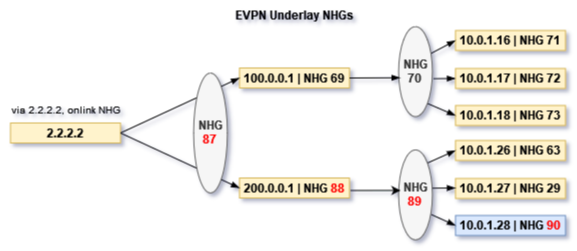
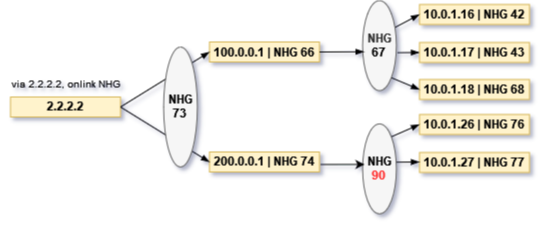
Update recursive HLD

diff --git a/doc/recursive/recursive_route.md b/doc/recursive/recursive_route.md
@@ -9,15 +9,15 @@
 <!-- omit in toc -->
 ## Table of Content
 - [Goal and Scope](#goal-and-scope)
-- [FRR's Current Limitations](#frrs-current-limitations)
-- [Triggers Events](#triggers-events)
-- [FRR Current Approaches](#frr-current-approaches)
-  - [NH Dependency Tree](#nh-dependency-tree)
-  - [NHT List from Route Node](#nht-list-from-route-node)
-  - [Route Update Trigger](#route-update-trigger)
 - [Requirements Overview](#requirements-overview)
+- [Zebra Current Approach for Recursive Routes](#zebra-current-approach-for-recursive-routes)
+  - [Data Structure for Recursive Handling](#data-structure-for-recursive-handling)
+    - [NH Dependency Tree](#nh-dependency-tree)
+    - [NHT List from Route Node](#nht-list-from-route-node)
+  - [Recursive Route Handling](#recursive-route-handling)
 - [High Level Design](#high-level-design)
-  - [Route Add and Updating](#route-add-and-updating)
+  - [Triggers Events for Recursive Handling](#triggers-events-for-recursive-handling)
+  - [Optimization of Recursive Route Handling](#optimization-of-recursive-route-handling)
     - [Data Structure Modifications](#data-structure-modifications)
       - [struct nhg\_hash\_entry](#struct-nhg_hash_entry)
       - [struct route\_entry](#struct-route_entry)
@@ -26,10 +26,6 @@
   - [Nexthop Group Preserving](#nexthop-group-preserving)
     - [Data Structure Modifications](#data-structure-modifications-1)
     - [The Handling of nexthop\_active\_update()](#the-handling-of-nexthop_active_update)
-    - [The Handling of rib\_add\_multipath\_nhe()](#the-handling-of-rib_add_multipath_nhe)
-  - [Route Withdrawal](#route-withdrawal)
-    - [Data Structure Modifications](#data-structure-modifications-2)
-    - [Fast Convergence Handling for Route Withdrawal](#fast-convergence-handling-for-route-withdrawal)
   - [Special Considerations for EVPN Overlay Routes](#special-considerations-for-evpn-overlay-routes)
   - [Dataplane Refresh for Recursive route](#dataplane-refresh-for-recursive-route)
   - [FPM's new schema for recursive nexthop group](#fpms-new-schema-for-recursive-nexthop-group)
@@ -46,10 +42,17 @@
 ## Goal and Scope
 A recursive route is a routing mechanism in which the routing decision for a specific destination is determined by referring to another routing table, which is then looked up recursively until a final route is resolved. Recursive routing is a key concept in routing protocols and is often used in complex network topologies to ensure that data reaches its intended destination, even when that destination is not directly reachable from the originating device. In many cases, recursive routes are used in VPN or tunneling scenarios.
 
-## FRR's Current Limitations
-FRR Zebra uses struct nexthop to track next hop information. If it is a recursive nexthop, its flags field would be set NEXTHOP_FLAG_RECURSIVE bit and its resolved field stores a pointer which points a list of nexthops obtained by recursive resolution. Therefore Zebra keeps hierarchical relationships on the recursive nexthops. 
+- This HLD focus on recursive route convergence handling. Since SONiC doesn't have MPLS VPN support in master, the testing would focus on EVPN and SRv6 VPN only. 
+- The approach applied to the handling of recursive routes in Per-VRF.
 
-Because the Linux kernel lacks support for recursive routes, FRR Zebra flattens the next-hop information of recursive routes when transferring it from Zebra to FPM or the Linux kernel. Currently, when a path goes down, Zebra would inform various protocol processes and let them replay routes update events accordingly. 
+## Requirements Overview
+This HLD focuses on Zebra and introduces two enhancements for recursive routes. The first is to recalculate route changes (additions/updates/withdrawals) independently, without relying on the protocol client in certain cases. The second is to optimize the convergence logic of recursive route. If Zebra serves as the control plane, then corresponding adjustments may be made to FPM and Orchagent to collaborate with it, thereby enhancing the overall efficiency of route convergence.
+
+- Fpm needs to add a new schema to take each member as nexthop group ID and update APP DB. (Rely on BRCM and NTT's changes)
+- Orchagent picks up event from APP DB and trigger nexthop group programming. Neighorch needs to handle this new schema without change too much on existing codes. (Rely on BRCM and NTT's changes)
+
+## Zebra Current Approach for Recursive Routes
+Zebra uses struct nexthop to track nexthop information. If it is a recursive nexthop, its flags field would be set NEXTHOP_FLAG_RECURSIVE bit and its resolved field stores a pointer which points a list of nexthops obtained by recursive resolution. Therefore Zebra keeps hierarchical relationships on the recursive nexthops. Because the Linux kernel lacks support for recursive routes, FRR Zebra flattens the nexthop information of recursive routes when transferring it from Zebra to FPM or the Linux kernel. Currently, when a path goes down, Zebra would inform various protocol processes and let them replay routes update events accordingly. 
 
 This leads an issue discussed in the SONiC Routing Working Group (https://lists.sonicfoundation.dev/g/sonic-wg-routing/files/SRv6%20use%20case%20-%20Routing%20WG.pptx).
 
@@ -60,23 +63,8 @@ This leads an issue discussed in the SONiC Routing Working Group (https://lists.
 
 To solve this issue, we need to introduce Prefix Independent Convergence (PIC) to FRR/SONiC. PIC concept is described in IEFT https://datatracker.ietf.org/doc/draft-ietf-rtgwg-bgp-pic/. It is not a BGP feature, but a RIB/FIB feeature on the device. PIC has two basic concepts, PIC core and PIC edge. The following HLD focuses on PIC edge's enhancement https://datatracker.ietf.org/doc/draft-ietf-rtgwg-bgp-pic/. This HLD is outline an approach which could prevent BGP load balancing updates from being triggered by IGP load balancing updates, a.k.a PIC core approach for the recursive VPN route support. 
 
-Note: 
-- This HLD only focus on recursive VPN routes support. Since SONiC doesn't have MPLS VPN support in master, the testing would focus on EVPN and SRv6 VPN only. 
-- The similar approach could be applied to global table's recursive routes support. But that requires SAI APIs. Therefore, global table's recursive routes support is not in the scope of this HLD.(?? TODO It is per-vrf recursive enhancement, so the global will also benefit from this enhancement ??)
-
-## Triggers Events
-Here are a list of trigger events which we want to take care for getting faster routes convergence and minimizing hardware traffic loss. 
-
-| Trigger Types |     Events    |       Possible handling          | 
-|:---|:-----------|:----------------------|
-| Case 1: IGP local failure | A local link goes down | Currently Orchagent handles local link down event and triggers a quick fixup which removes the failed path in HW ECMP. Zebra will be triggered from connected_down() handling. BGP may be informed to install a backup path if needed. This is a special PIC core case, a.k.a PIC local |
-| Case 2: IGP remote link/node failture  | A remote link goes down, IGP leaf's reachability is not changed, only IGP paths are updated. | IGP gets route withdraw events from IGP peer. It would inform zebra with updated paths. Zebra would be triggered from zread_route_add() with updated path list. It is the PIC core handling case. |
-| Case 3: IGP remote PE failure  | A remote PE node is unreachable in IGP domain. | IGP triggers IGP leaf delete event. Zebra will be triggered from zread_route_del(). It is the PIC edge handling case |
-| Case 4: BGP remote PE node failure  | BGP remote node down | It should be detected by IGP remote node down first before BGP reacts, a.k.a the same as the above steps. This is the PIC edge handling case.|
-| Case 5: Remote PE-CE link failure | This is remote PE's PIC local case.  | Remote PE will trigger PIC local handling for quick traffic fix up. Local PE will be updated after BGP gets informed. |
-
-## FRR Current Approaches
-### NH Dependency Tree
+### Data Structure for Recursive Handling
+#### NH Dependency Tree
 struct nexthop contains two fields, *resolved and *reparent for tracking nexthop resolution's dependencies. 
 
 	/* Nexthops obtained by recursive resolution.
@@ -91,10 +79,10 @@ struct nexthop contains two fields, *resolved and *reparent for tracking nexthop
 
 https://github.com/FRRouting/frr/blob/858cc75b434344ae0b25eccaf6eef03debe4a031/lib/nexthop.h#L99C1-L105C26
 
-When a routing entry is processed by rib_process(), it calls nexthop_active_update() to parse and refresh the nexthop active state. By nexthop_set_resolved(), *resolved is set to the nexthop of the route used to resolve this nexthop, *rparent will also be correspondingly set and the flag of this nexthop is set to NEXTHOP_FLAG_RECURSIVE.
+In Zebra, when a routing entry is processed by rib_process() function, it calls nexthop_active_update() to parse and refresh the nexthop resolving state. Then, *resolved is set to the nexthop of the route used to resolve this nexthop, and the flag NEXTHOP_FLAG_RECURSIVE is set to the nexthop to indicate its recursive state.
 
-### NHT List from Route Node
-Each route node (struct rib_dest_t ) contains a nht field which lists out all NHT prefixes which depend on this route node. 
+#### NHT List from Route Node
+Each route node (struct rib_dest_t) contains an nht field, which stores all nexthop prefixes that depend on this route node.
 
 	/*
 	 * The list of nht prefixes that have ended up
@@ -105,34 +93,31 @@ Each route node (struct rib_dest_t ) contains a nht field which lists out all NH
 	 */
 	struct rnh_list_head nht;
 
-nht is updated by zebra_rnh_store_in_routing_table() and zebra_rnh_remove_from_routing_table().
+This list is updated when a new route is added or a nexthop is registered by the protocol clients.
 
-### Route Update Trigger
-Zebra will trigger routes update in the following locations
+### Recursive Route Handling
+The handling is carried out during the replay of route updates, and zebra_rib_evaluate_rn_nexthops() can be seen as the entry point for this process. It starts from the incoming route node and retrieves its NHT list. Then, it iterates through each nexthop(prefix) in the NHT list, utilizing the prefix to invoke zebra_evaluate_rnh(). This function works as follows:
 
-- After each invocation of rib_process()
-- After rib_process_result() for processing after async dataplane update
-- After rib_process_dplane_notify() for the dataplane has detected some change to a route
-- After zfpm_build_route_updates() for deleting the destination if necessary
-
-Nexthop resolving update is carried out during replay of routes updating and zebra_rib_evaluate_rn_nexthops() can be seen as the entry point for this process. It starts from the incoming route node and retrieves its NHT list. Then it iterates through each prefix in the NHT list, utilizing the prefix to invoke zebra_evaluate_rnh().
-
-1. Identify the new route entry to resolve nexthops in the NHT list.
-2. Compare the new route entry with the old one, update the nexthop resolving state as the new route entry, and then send a nexthop change notification to protocol clients.
-3. Protocol clients recalculate the path associated with the nexthop, then resend the route to Zebra.
-4. Pass the route to rib_process().
-5. The route's nexthop is recursively resolved, and the recursive one will be flattened.
-6. Call zebra_rib_evaluate_rn_nexthops(), then go to step 1. This loop procedure builds/refreshes the recursive nexthop chain.
-
-## Requirements Overview
-This HLD focus on Zebra and introduces two enhancements for the recursive route. The first is to recalculate the route on route add/update independently, without relying on the protocol client for route updating. The second is to optimize the convergence logic of recursive nexthop group in the case of route withdrawal. If Zebra serves as the control plane, then corresponding adjustments will be made to FPM and Orchagent to collaborate with it, thereby enhancing the overall efficiency of route convergence.
-
-- Fpm needs to add a new schema to take each member as nexthop group ID and update APP DB. (Rely on BRCM and NTT's changes)
-- Orchagent picks up event from APP DB and trigger nexthop group programming. Neighorch needs to handle this new schema without change too much on existing codes. (Rely on BRCM and NTT's changes)
+1. identify the new route entry to resolve the nexthop
+2. compare the new route entry with the previous one, if they are not same, update the nexthop resolving state as the new route entry, and then send a nexthop change notification to protocol clients
+3. protocol clients recalculate the path associated with the nexthop, then resend the corresponding route to Zebra.
+4. Zebra processes this route and the route's nexthop is recursively resolved and also flattened
+6. at the end of route updating, zebra_rib_evaluate_rn_nexthops() is called with the route's NHT list, and then it returns to step 1. This loop procedure contributes to recursive route convergence
 
 ## High Level Design
 
-### Route Add and Updating
+### Triggers Events for Recursive Handling
+Here are a list of trigger events which we want to take care for getting recursive route convergence and minimizing hardware traffic loss. 
+
+| Trigger Types |     Events    |       Possible handling          | 
+|:---|:-----------|:----------------------|
+| Case 1: IGP local failure | A local link goes down | Currently Orchagent handles local link down event and triggers a quick fixup which removes the failed path in HW ECMP. Zebra will be triggered from connected_down() handling. BGP may be informed to install a backup path if needed. This is a special PIC core case, a.k.a PIC local |
+| Case 2: IGP remote link/node failture  | A remote link goes down, IGP leaf's reachability is not changed, only IGP paths are updated. | IGP gets route withdraw events from IGP peer. It would inform zebra with updated paths. Zebra would be triggered from zread_route_add() with updated path list. It is the PIC core handling case. |
+| Case 3: IGP remote PE failure  | A remote PE node is unreachable in IGP domain. | IGP triggers IGP leaf delete event. Zebra will be triggered from zread_route_del(). It is the PIC edge handling case |
+| Case 4: BGP remote PE node failure  | BGP remote node down | It should be detected by IGP remote node down first before BGP reacts, a.k.a the same as the above steps. This is the PIC edge handling case.|
+| Case 5: Remote PE-CE link failure | This is remote PE's PIC local case.  | Remote PE will trigger PIC local handling for quick traffic fix up. Local PE will be updated after BGP gets informed. |
+
+### Optimization of Recursive Route Handling
 Consider the case of recursive routes for EVPN underlay
 
     B>  2.2.2.2/32 [200/0] via 100.0.0.1 (recursive), weight 1, 00:11:50
@@ -150,16 +135,19 @@ Consider the case of recursive routes for EVPN underlay
       *                      via 10.1.0.27, Ethernet5, weight 1, 00:11:50
       *                      via 10.1.0.28, Ethernet6, weight 1, 00:11:50
 
-As described in the above section, if the path 10.1.0.67 for prefix 100.0.0.0/24 is new added, Zebra will explicitly update both routes for recursive convergence with the help of the BGP client, one for the prefix 100.0.0.0/24 and another for the prefix 2.2.2.2/32.
+If the path 10.1.0.28 of prefix 200.0.0.0/24 is removed, Zebra will explicitly update both routes for recursive convergence with the help of the BGP client, one for 200.0.0.0/24 and another for 2.2.2.2/32. In this scenario, although the route 200.0.0.0/24 has one path removed, but its reachability for route 2.2.2.2/32 remains unchanged . Zebra has the dependency relationships between these recursive routes, so there is a chance to improve Zebra for route convergence.
 
-In this scenario, although the route for prefix 100.0.0.0/24 has a new added path, but the reachability of the prefix 2.2.2.2 remains unchanged and also Zebra has the dependency relationships between recursive nexthop groups, so there is a chance to improve Zebra for route convergence by itself.
+<figure align=center>
+    <img src="images/path_remove1.png" >
+    <figcaption>Figure 2. path remove for recursive route<figcaption>
+</figure>
 
 #### Data Structure Modifications
-In order to enable Zebra to update routes without notifying protocol clients, it should be able to obtain the route node associated with the nexthop group that has undergone changes. Some back pointer fields need to be added.
+In order to enable Zebra to update routes without notifying protocol clients, it should be able to obtain the route node associated with the nexthop that has undergone changes. Some back pointer fields need to be added.
 
 <figure align=center>
     <img src="images/data_struct.png" >
-    <figcaption>Figure 2. data structure modification for routes update<figcaption>
+    <figcaption>Figure 3. data structure modification for routes update<figcaption>
 </figure>
 
 ##### struct nhg_hash_entry 
@@ -246,7 +234,7 @@ done:
 ```
 
 ##### struct rnh
-zebra_rib_evaluate_rn_nexthops() triggers routes updating through nexthop group backwalk. Without the assistance of protocol clients, a method needs to be introduced for looking up nexthop group based on the prefix of the NHT list. e.g. Finding the nexthop group based on the prefix 100.0.0.1.
+zebra_rib_evaluate_rn_nexthops() triggers routes updating through nexthop backwalk. Without the assistance of protocol clients, a method needs to be introduced for looking up nexthop hash struct(nhe) based on the prefix of the NHT list. e.g. Finding the nhe based on the prefix 100.0.0.1.
 
 A new field nhe_id is added for this purpose.
 
@@ -259,9 +247,9 @@ A new field nhe_id is added for this purpose.
         ...
     }
 
-This field provides information about which nexthop group is associated with the NHT prefix.
+This field provides information about which nhe is associated with the NHT prefix.
 
-nhg_id_rnh_add() is used to set this field and it is invoked each time a new nexthop group is created in zebra_nhe_find().
+nhg_id_rnh_add() is used to set this field and it is invoked each time a new singleton nhe is created in zebra_nhe_find().
 ``` c
 static void nhg_id_rnh_add(struct nhg_hash_entry *nhe)
 ```
@@ -291,13 +279,13 @@ done:
 
 #### The Handling of zebra_rnh_refresh_dependents()
 
-This new function is inserted into the existing route convergence process, allowing Zebra to autonomously achieve route convergence in the case where the reachability of recursive routes remains unchanged.
+This new added function is inserted into the existing route convergence process, allowing Zebra to achieve route convergence in the case where the reachability of recursive routes remains unchanged.
 
 Provide a brief description of Zebra's original recursive convergence process.
 
 <figure align=center>
     <img src="images/route_converge_original.png" >
-    <figcaption>Figure 3. route convergence process<figcaption>
+    <figcaption>Figure 4. route convergence process<figcaption>
 </figure>
 
 Route/Nexthop dependents are built or refreshed from the bottom up with each invocation of zebra_rnh_eval_nexthop_entry().
@@ -306,7 +294,7 @@ After the insertion of zebra_rnh_refresh_dependents() into the original recursiv
 
 <figure align=center>
     <img src="images/zebra_rnh_refresh_dependents.png" >
-    <figcaption>Figure 4. zebra_rnh_refresh_dependents()<figcaption>
+    <figcaption>Figure 5. zebra_rnh_refresh_dependents()<figcaption>
 </figure>
 
 The logic in the red portion of the code will achieve fast route convergence updating. But it won't completely disable the protocol client's notification mechanism because when the reachability of routes that the NHT list depends on changes, i.e., when the routes it depends on change completely to another one, Zebra will still use the original protocol client notify mechanism for route convergence. In other words, the blue portion will only take effect when there's an increase or decrease in the paths corresponding to the nexthop group that doesn't affect route reachability.
@@ -339,7 +327,7 @@ static void zebra_rnh_eval_nexthop_entry(struct zebra_vrf *zvrf, afi_t afi,
         copy_state(rnh, re, nrn);
         state_changed = 1;
     } else if (compare_state(re, rnh->state)) {
-        if (!CHECK_FLAG(re->flags, ROUTE_ENTRY_NHG_ID_PRESERVED))
+        if (re->nhe->id != rnh->state->nhe->id)
             zebra_rnh_refresh_dependents(rnh);
         copy_state(rnh, re, nrn);
     }
@@ -351,70 +339,37 @@ static void zebra_rnh_eval_nexthop_entry(struct zebra_vrf *zvrf, afi_t afi,
 Explanation of the functions above:
 
 1. rib_process() eventually calls zebra_rnh_eval_nexthop_entry() after finishing the route updating task
-2. zebra_rnh_eval_nexthop_entry() see if a tracked nexthop entry (rnh) has undergone any change, If the rnh's resolution has changed, then it meets the fast convergence condition, zebra_rnh_refresh_dependents() is invoked, otherwise, the original protocol client notify mechanism is used, as step 6, zebra_rnh_notify_protocol_clients()
+2. zebra_rnh_eval_nexthop_entry() see if a tracked nexthop has resolution changed, if it is true, zebra_rnh_refresh_dependents() is invoked, otherwise, the original protocol client notify mechanism is used, as step 6, zebra_rnh_notify_protocol_clients()
 3. zebra_rnh_refresh_dependents() finds the corresponding nexthop group (nhe), then uses this nhe as parameter for zebra_rnh_eval_dependents()
-4. zebra_rnh_eval_dependents() walks back and find the routes depends on the nhe, then requeue the routes to working queue for rib_process() again. A new flag ROUTE_ENTRY_NHG_ID_PRESERVED (struct route_entry) is set for this route, to indicate that its recursive reachability is unchanged
-5. In each round of rib_process(), the rnh's resolving route status will be checked in zebra_rnh_eval_nexthop_entry(). The backwalk for route convergence stops if the rnh is resolved on a route with ROUTE_ENTRY_NHG_ID_PRESERVED flag or the rnh list is empty.
+4. zebra_rnh_eval_dependents() walks back and find the routes depends on the nhe, then requeue the routes to working queue for rib_process() again. A new added flag ROUTE_ENTRY_NHG_ID_PRESERVED is set for this route, to indicate that its recursive reachability is unchanged
+5. In each round of rib_process(), the rnh's resolving route status will be checked in zebra_rnh_eval_nexthop_entry(). The backwalk for recursive route convergence stops if the rnh is resolved on a route with same nhe id as the previous resolving route or the rnh list is empty.
 
 ### Nexthop Group Preserving
-By the original approach of routes updating, once the IGP routing changes, NHG refresh will proceed along the reverse path of dependency, so all NHGs on that direction will be recreated. As shown in the diagram, when the IGP node 10.0.1.28 is up, all dependent NHGs originating from it will be recreated, as indicated by the red text in the diagram.
+As previous section, once a route has some path changes, recursive route updating will proceed along the reverse path of dependency. By the original approach of the routes updating, all nexthop on that direction will be recreated. As shown in the diagram, when the path 10.0.1.28 is removed, all dependent nexthops originating from it will be recreated, as indicated by the red text in the diagram.
 
 <figure align=center>
     <img src="images/nhg_change1.png" >
-    <figcaption>Figure 5. NHG dependents<figcaption>
+    <figcaption>Figure 6. nexthop dependents change<figcaption>
 </figure>
+
+However, for the view of the reachability of nexthop 88, 89, there is no need to recreate them for recursive route updating again, since the reachability hasn't changed. After introducing the "Nexthop Group Preserving" enhancement, the desired goal is as illustrated in the following diagram.
 
 <figure align=center>
     <img src="images/nhg_change2.png" >
-    <figcaption>Figure 6. NHG dependents (IGP node 10.0.1.28 is up)<figcaption>
+    <figcaption>Figure 7. NHG dependents preserved<figcaption>
 </figure>
 
-However, for the view of the reachability of NHG 68, 61, 62, there is no need to refresh them for recursive route again (68 for prefix 2.2.2.2 and 61, 62 for 200.0.0.1), since the reachability hasn't changed. If these NHGs remain unchanged, it means that the nhe for them can be reused and the dependents chain have no changes too.
-
-After introducing the "Nexthop Group Preserving" enhancement, the desired goal is as illustrated in the following diagram.
-
-<figure align=center>
-    <img src="images/nhg_change3.png" >
-    <figcaption>Figure 7. NHG dependents preserved (IGP node 10.0.1.28 is up)<figcaption>
-</figure>
-
-The dependent NHG chain all the way up for the newly added path NHG 64 is untouched.
+The dependent nexthops chain all the way up for the newly updated nexthop group 90 is untouched.
 
 #### Data Structure Modifications
 ``` c
 /* The nexthop group id should remain unchanged during resolving */
 #define ROUTE_ENTRY_NHG_ID_PRESERVED      0x80
 ```
-This new flag for struct route_entry indicates that the nexthop group shouldn't change during route's recursive resolving, it also implies that the route with this flag only has some nexthop path change, but the reachability of it remains same.
+This flag for struct route_entry indicates that the nexthop group shouldn't change during route's recursive resolving, it also implies that the route with this flag only has some nexthop path change, but the reachability of it remains same.
 
 #### The Handling of nexthop_active_update()
-The modification made to nexthop_active_update() preserves the associated nexthop group of routes with the ROUTE_ENTRY_NHG_ID_PRESERVED flag set during recursive route resolution. It recursively resolves them in place. Once the resolution is complete, the nexthop group itself is reused, and no new nexthop groups are created.
-
-#### The Handling of rib_add_multipath_nhe()
-TODO: Route adding part for this function need to be tuned. In the case of that the new route entry replaces the old one, we need to reuse the original nhe and only updates its associated nhg to the new ones, then attach it to the new route entry and set ROUTE_ENTRY_NHG_ID_PRESERVED to this route entry. This may achieve the goal of preserving NHG?
-
-### Route Withdrawal
-As shown in the example of recursive routes for EVPN underlay above, rib deletion is triggered by the local interface going down or by an explicit route withdrawal message from the BGP client. It is handled in rib_gc_dest(), while zebra_rnh_refresh_dependents() is called for all the rnh that depend on the removed route. So route withdrawal shares the same logic of route updating.
-
-<figure align=center>
-    <img src="images/route_delete.png" >
-    <figcaption>Figure 8. rib deletion code path<figcaption>
-</figure>
-
-Assuming interface Ethernet6 is down, in the context of "Nexthop Group Preserving", the nexthop group dependent state is as illustrated in the following diagram
-
-<figure align=center>
-    <img src="images/nhg_change4.png" >
-    <figcaption>Figure 9. NHG dependents preserved (Ethernet6 is down)<figcaption>
-</figure>
-
-The dependent NHG chain all the way up from NHG 62 is untouched.
-
-#### Data Structure Modifications
-As described in the "route updating" section.
-
-#### Fast Convergence Handling for Route Withdrawal
-As described in the "route updating" section.
+The modification made to nexthop_active_update() preserves the associated nexthop group of routes with the ROUTE_ENTRY_NHG_ID_PRESERVED flag set during recursive route resolution. It recursively resolves them in place. Once the resolution is complete, the nexthop group resolution is refreshed, and no new nexthop groups are created.
 
 ### Special Considerations for EVPN Overlay Routes
 TODO:
@@ -433,34 +388,34 @@ We rely on BRCM and NTT's changes.
 ### Test Case 1: local link failure
 <figure align=center>
     <img src="images/testcase1.png" >
-    <figcaption>Figure 10.local link failure <figcaption>
+    <figcaption>Figure 11.local link failure <figcaption>
 </figure>
 
 ### Test Case 2: IGP remote link/node failure
 <figure align=center>
     <img src="images/testcase2.png" >
-    <figcaption>Figure 11. IGP remote link/node failure
+    <figcaption>Figure 12. IGP remote link/node failure
  <figcaption>
 </figure>
 
 ### Test Case 3: IGP remote PE failure
 <figure align=center>
     <img src="images/testcase3.png" >
-    <figcaption>Figure 12. IGP remote PE failure
+    <figcaption>Figure 13. IGP remote PE failure
  <figcaption>
 </figure>
 
 ### Test Case 4: BGP remote PE node failure
 <figure align=center>
     <img src="images/testcase4.png" >
-    <figcaption>Figure 13. BGP remote PE node failure
+    <figcaption>Figure 14. BGP remote PE node failure
  <figcaption>
 </figure>
 
 ### Test Case 5: Remote PE-CE link failure
 <figure align=center>
     <img src="images/testcase5.png" >
-    <figcaption>Figure 14. Remote PE-CE link failure
+    <figcaption>Figure 15. Remote PE-CE link failure
  <figcaption>
 </figure>
 
